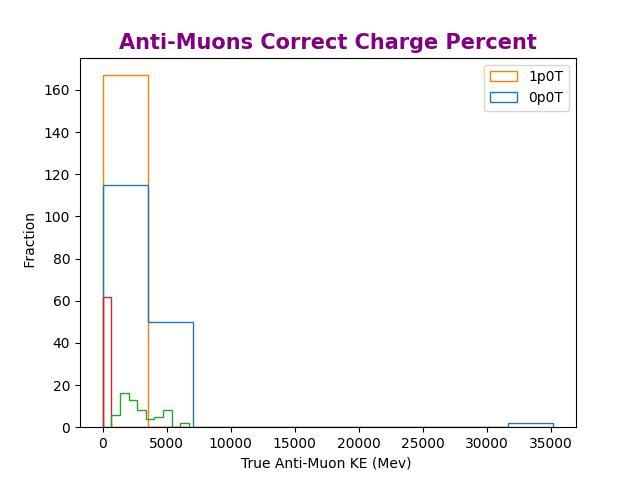
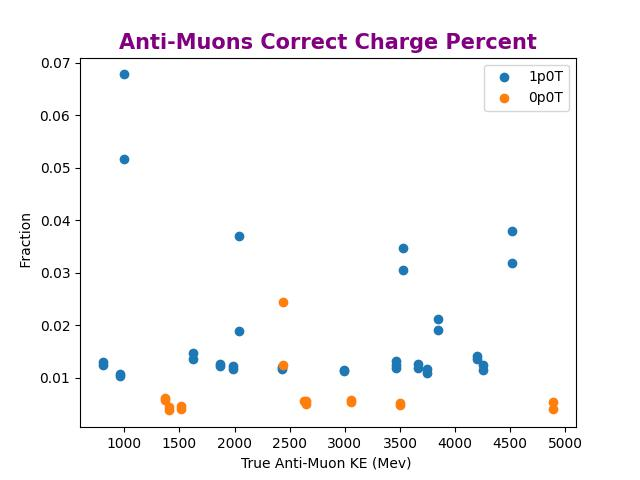
June 14 Latest Commit

diff --git a/new/make_for_correct_amuons.py b/new/make_for_correct_amuons.py
@@ -6,7 +6,7 @@ from mat_helper import Hists_Graph
 
 
 
-with open("python_object.sushil_dai", 'rb') as file:
+with open("python_object_eff.sushil_dai", 'rb') as file:
     loaded_data = pickle.load(file)
 
 amuon_graph = Hists_Graph("Anti-Muons Correct Charge Percent", "True Anti-Muon KE (Mev) ;True signed distance(mm); Fraction")
@@ -14,10 +14,12 @@ amuon_graph = Hists_Graph("Anti-Muons Correct Charge Percent", "True Anti-Muon K
 amuon_names=[]
 for i in loaded_data['AMUONS']:
     filtered_name = i.split("_")[-1].split(".")[0]
+    # print(max(loaded_data['AMUONS_CORRECT'][i][1]))
+    # break
     # print(len(loaded_data['AMUONS_CORRECT'][i][0]),len(loaded_data['AMUONS_CORRECT'][i][1]))
     # print(loaded_data['AMUONS_CORRECT'][i][0][29],loaded_data['AMUONS_CORRECT'][i][1][29])
-
-    amuon_graph.add([loaded_data['AMUONS_CORRECT'][i][0],loaded_data['AMUONS_CORRECT'][i][1]])
+    # print(loaded_data.keys())
+    amuon_graph.scatter(loaded_data['AMUONS_CORRECT'][i][0],loaded_data['AMUONS_CORRECT'][i][1])
     amuon_names.append(filtered_name)
 amuon_graph.finish(amuon_names)
 amuon_graph.save("Amuons_Correct.jpg")

diff --git a/new/make_for_correct_muons.py b/new/make_for_correct_muons.py
@@ -6,7 +6,7 @@ from mat_helper import Hists_Graph
 
 
 
-with open("python_object.sushil_dai", 'rb') as file:
+with open("python_object_eff.sushil_dai", 'rb') as file:
     loaded_data = pickle.load(file)
 
 muon_graph = Hists_Graph("Muons Correct Charge Percent", "True Muon KE (Mev) ;True signed distance(mm); Fraction")
@@ -14,7 +14,7 @@ muon_graph = Hists_Graph("Muons Correct Charge Percent", "True Muon KE (Mev) ;Tr
 muon_names=[]
 for i in loaded_data['AMUONS']:
     filtered_name = i.split("_")[-1].split(".")[0]
-    muon_graph.add(loaded_data['MUONS_CORRECT'][i])
+    muon_graph.scatter(loaded_data['MUONS_CORRECT'][i][0],loaded_data['MUONS_CORRECT'][i][1])
     muon_names.append(filtered_name)
 muon_graph.finish(muon_names)
 muon_graph.save("muons_Correct.jpg")

diff --git a/new/make_for_muons.py b/new/make_for_muons.py
@@ -7,7 +7,7 @@ from mat_helper import Hists_Graph
 
 with open("python_object.sushil_dai", 'rb') as file:
     loaded_data = pickle.load(file)
-red_colors = matplotlib.cm.Reds(np.linspace(0.2, 1, 5))
+red_colors = matplotlib.cm.Reds(np.linspace(0.5, 1, 5))
 indexes = ['0p0T','0p9T','1p0T','1p1T','2p0T']
 muon_graph = Hists_Graph("hist_signed_distance", "Muons signed distance: (x_extropolate - x_truth) (using truth_info);True signed distance(mm) ;Number of muons")
 muon_names = []

diff --git a/new/make_for_amuons.py b/new/make_for_amuons.py
@@ -11,7 +11,7 @@ with open("python_object.sushil_dai", 'rb') as file:
 
 amuon_graph = Hists_Graph("hist_signed_distance_antimuon", "Antimuons signed distance: (x_extropolate - x_truth) (using truth_info) ;True signed distance(mm); Number of antimuons")
 indexes = ['0p0T','0p9T','1p0T','1p1T','2p0T']
-blue_colors = matplotlib.cm.Blues(np.linspace(0.2, 1, 5))
+blue_colors = matplotlib.cm.Blues(np.linspace(0.5, 1, 5))
 
 amuon_names=[]
 for i in loaded_data['AMUONS']:

diff --git a/new/mat_helper.py b/new/mat_helper.py
@@ -11,9 +11,13 @@ class Hists_Graph():
     def add(self,x,color=None):
         # Create a histogram with 200 bins
         plt.hist(x,histtype="step",bins=100,color=color)   
+        # plt.hist(x,bins=100,color=color)   
         plt.xlim(-2000, 2000)
         # plt.ylim(0, 400)
 
+    def scatter(self,x,y,color=None):
+        plt.scatter(x,y)
+        
     def finish(self,f):
         
         plt.legend(f,loc="upper right")

diff --git a/histograms.py b/histograms.py
@@ -130,6 +130,7 @@ def run(c, truth, f,outfilename, nmax=-1):
     amuon_signed_distances = []
     muon_correct_charge = [[],[]]
     amuon_correct_charge = [[],[]]
+    
 
     # Now loop over all events
     for i, event in enumerate(c):
